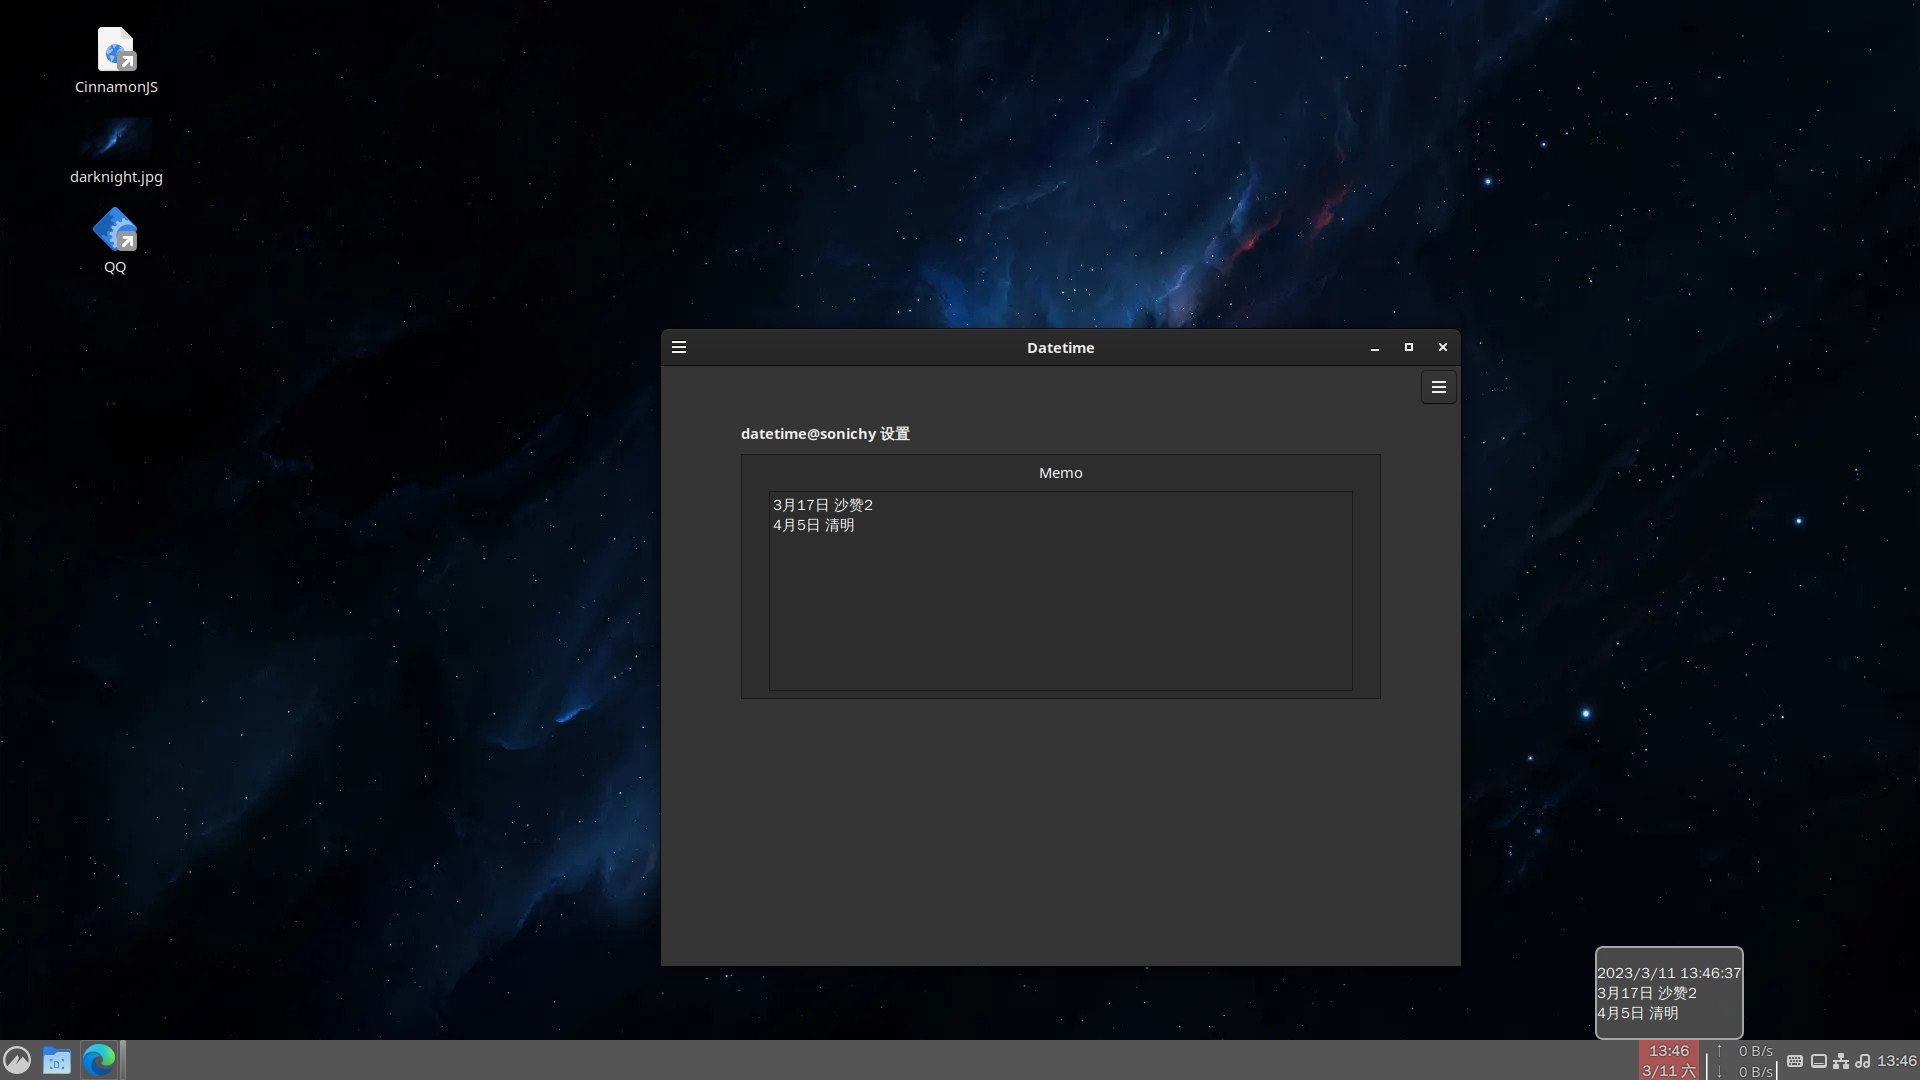
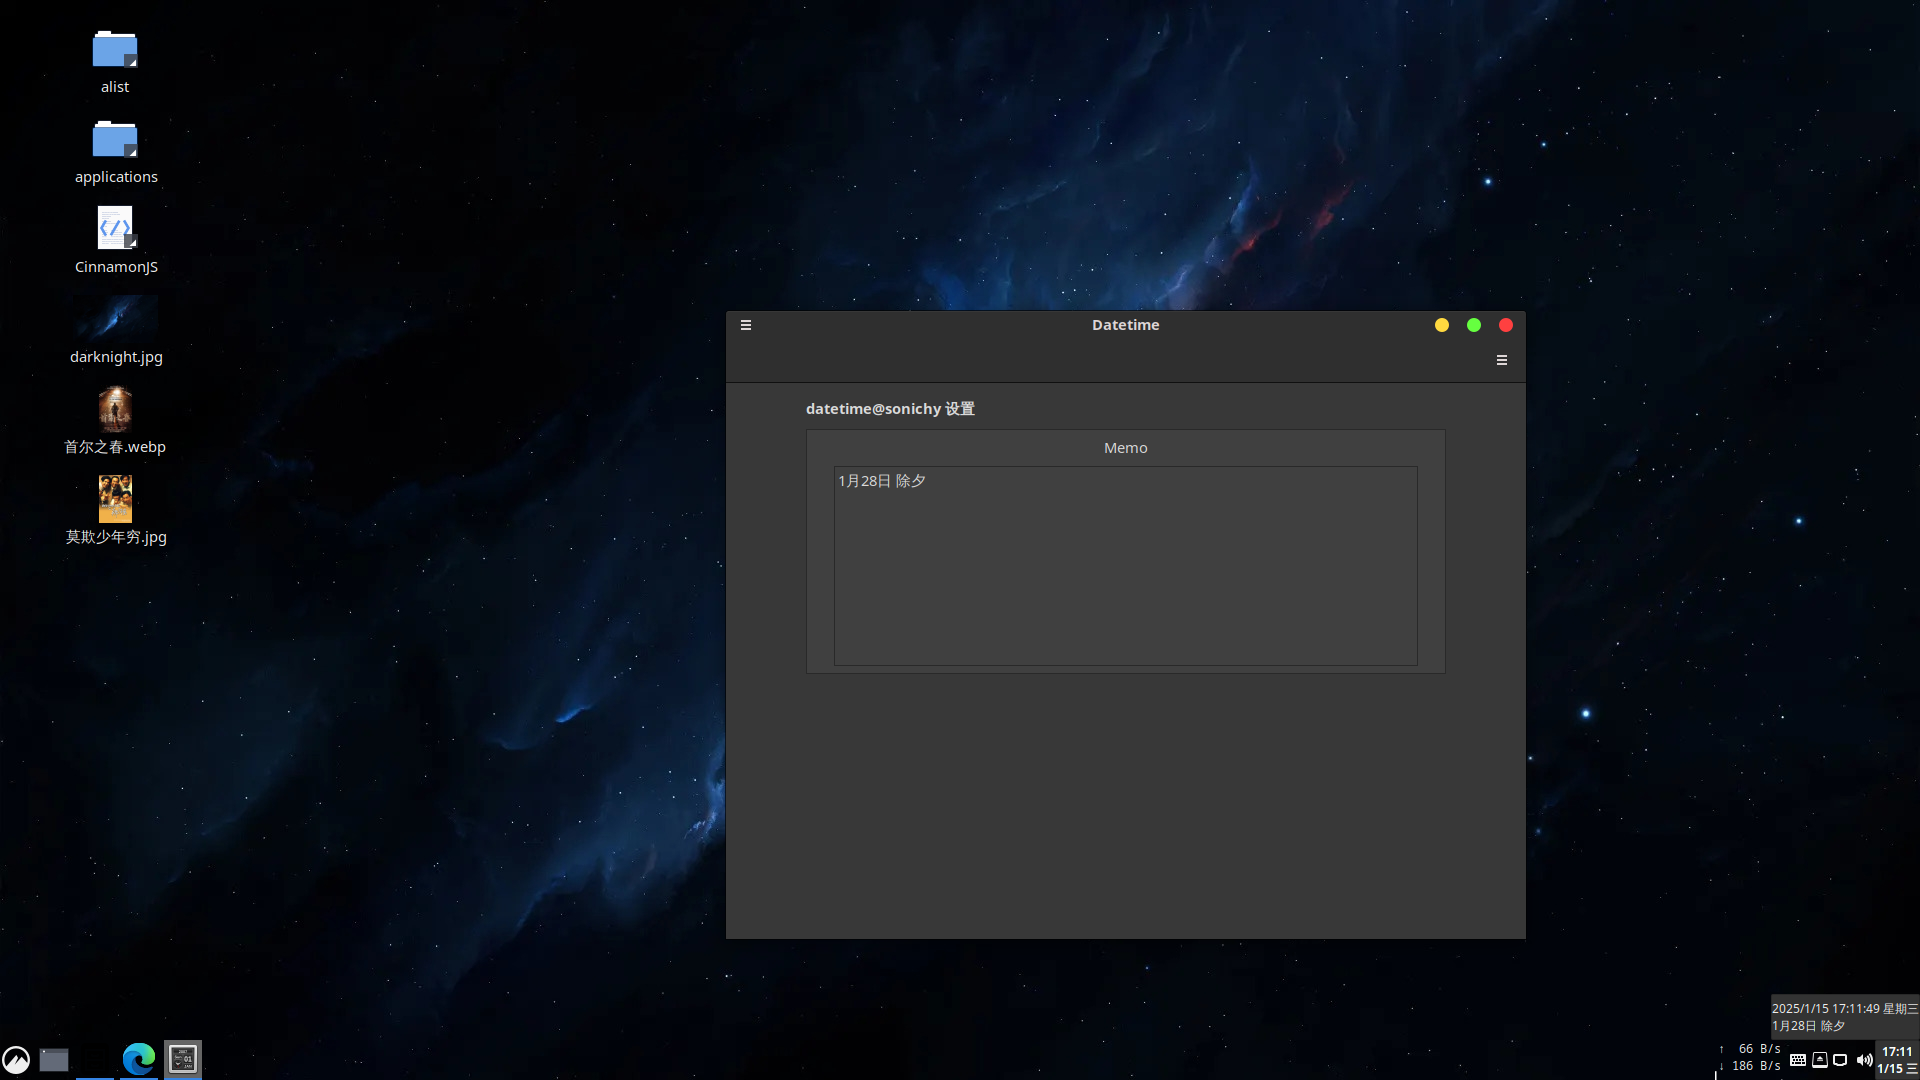
tooltip: simplify date string, add weekday

diff --git a/datetime@sonichy/applet.js b/datetime@sonichy/applet.js
@@ -42,9 +42,10 @@ MyApplet.prototype = {
 	        var m1 = (date.getMonth()+1);
 	        var day = date.getDay();
 	        var weekday = ["日", "一", "二", "三", "四", "五", "六"];
+	        var weekday1 = ["星期日", "星期一", "星期二", "星期三", "星期四", "星期五", "星期六"];
 	        var s1 = h + ":" + m + "\n" + m1 + "/" + date.getDate() + " " + weekday[day];
 	        this.set_applet_label(s1);
-            s1 = date.getFullYear() + "/" + m1 + "/" + date.getDate() + " " + h + ":" + m + ":" + s + "\n" + this.memo;
+            s1 = date.toLocaleString() + " " + weekday1[day] + "\n" + this.memo;
         	this.set_applet_tooltip(s1);
         	label.set_text(s1);
         	return true; // loop
